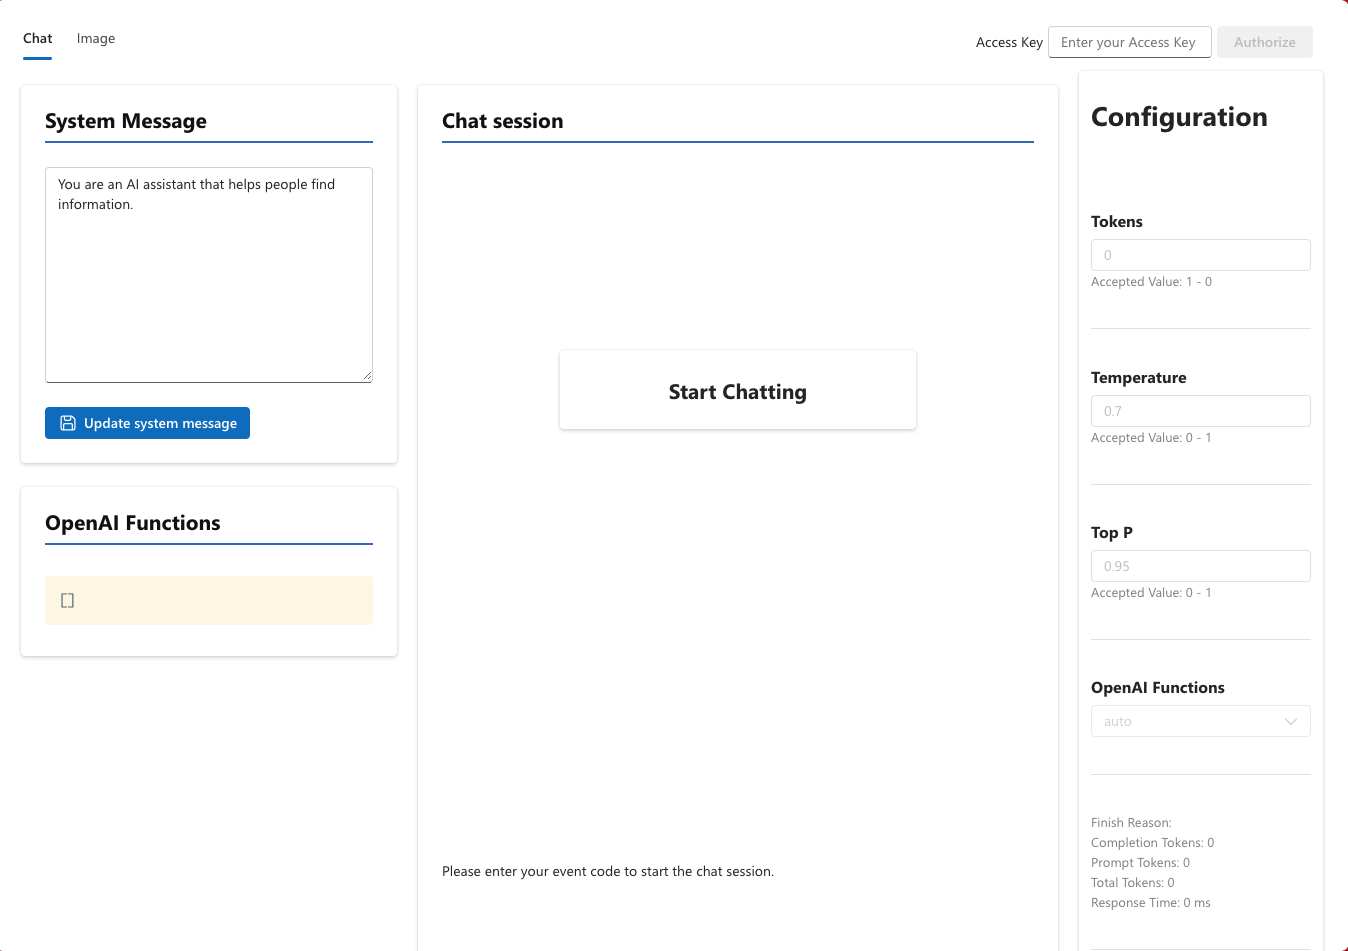
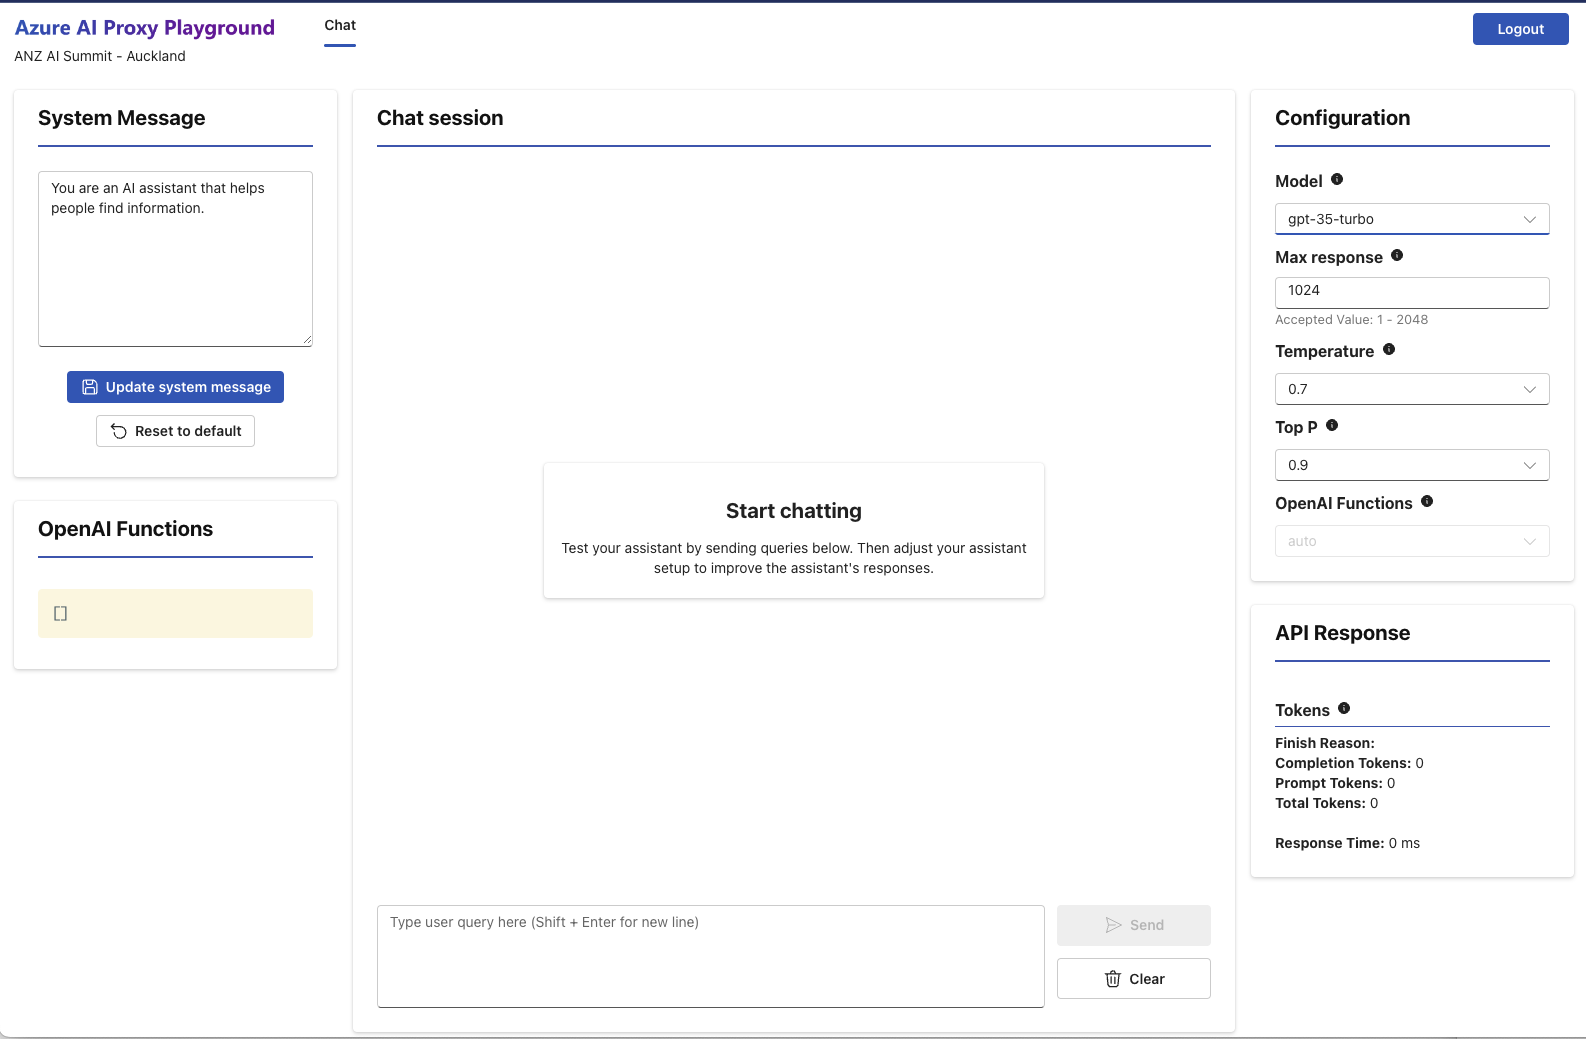
docs new images and auth

diff --git a/docusaurus.config.js b/docusaurus.config.js
@@ -18,7 +18,6 @@ const config = {
   onBrokenMarkdownLinks: "ignore",
   trailingSlash: true,
   
-
   organizationName: "gloveboxes", 
   projectName: "Workshop-Interact-with-OpenAI-models", 
   deploymentBranch: "gh-pages", 

diff --git a/docs/01-Get-Started.md b/docs/01-Get-Started.md
@@ -4,22 +4,24 @@ slug: /setup
 ---
 
 :::info WORKSHOP PRE-REQUISITES
- - **Use your own laptop**. 
- - **Launch a modern browser**. (Use edge or chrome for the best experience)
-:::
+
+- **Use your own laptop**.
+- **Launch a modern browser**. (Use edge or chrome for the best experience)
+  :::
 
 For this workshop you are using a custom playground build on-top of the Azure OpenAI Service. In this playground you will have the opportunity to play with the prompts and learn how to interact with OpenAI Models.
 
-
 ## Authenticate
 
-Your workshop instructor will provide you with an **access key** that will be valid during the workshop session. Setup is now a quick 2-step process. 
- 1. Navigate to the [Microsoft AI Tour Playground](https://aka.ms/aitour/playground) in browser, as shown below. 
- 2. Enter the **access-key** at top-right and click `Authorize` to login.
-    ![AI Tour Playground](./images/aitour-playground-chat.png) 
+You will be using your AI Proxy API Key that you registered for.
 
+1. Navigate to the AI Proxy Playground. You will find this link when you registered for this workshop.
+2. Enter the **API Key** at top-right and click `Authorize` to login.
+    ![AI Tour Playground](./images/aitour-playground-chat.png)
+3. Select a model from the dropdown list.
 
 ## Explore
+
 On successful login, the playground application should update to show a `Logout` button at top-right, as shown below. To validate your setup, enter a query in the user prompt input box (region 2) and click `Send`. You should get a conversational response in the chat session are (region 3) as shown below.
 
 Let's take a minute to familiarize ourselves with the different regions of this app.
@@ -32,8 +34,7 @@ Let's take a minute to familiarize ourselves with the different regions of this 
 - Region 4⃣ | Configuration - tunable parameters, execution stats
 - Region 5⃣ | System message - sets assistant persona, base context
 - Region 6⃣ | Function calling - save custom functions to set context
-- Region 7⃣ | Image generation - access the DALL-E model playground 
-
+- Region 7⃣ | Image generation - access the DALL-E model playground
 
 ## Tips
 
@@ -43,7 +44,7 @@ The output of the model is influenced by the contents of the chat session. To en
 
 ### 2. Copy-Paste Snippets
 
-In a prompt-based exercise, you will find the prompt input is  provided to you in a _code-fenced_ snippet as shown below. When viewing this page in a browser, _click_ within the code-fenced region below to see a `copy` icon appear at the right. Click it to copy the prompt into your clipboard - then paste using <kbd>Ctrl-V</kbd> (or equivalent) command into the text input region in Playground.
+In a prompt-based exercise, you will find the prompt input is provided to you in a _code-fenced_ snippet as shown below. When viewing this page in a browser, _click_ within the code-fenced region below to see a `copy` icon appear at the right. Click it to copy the prompt into your clipboard - then paste using <kbd>Ctrl-V</kbd> (or equivalent) command into the text input region in Playground.
 
 ```text
 This is the prompt text you need to enter into the chat prompt input field.
